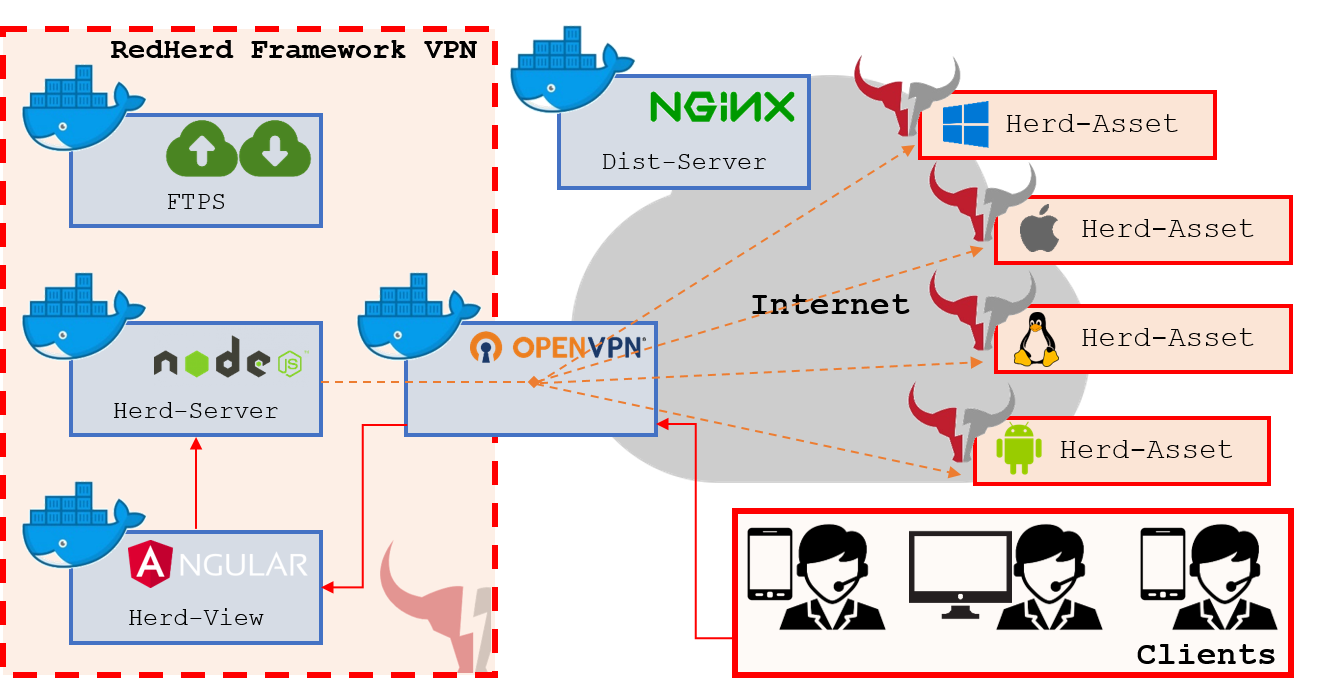
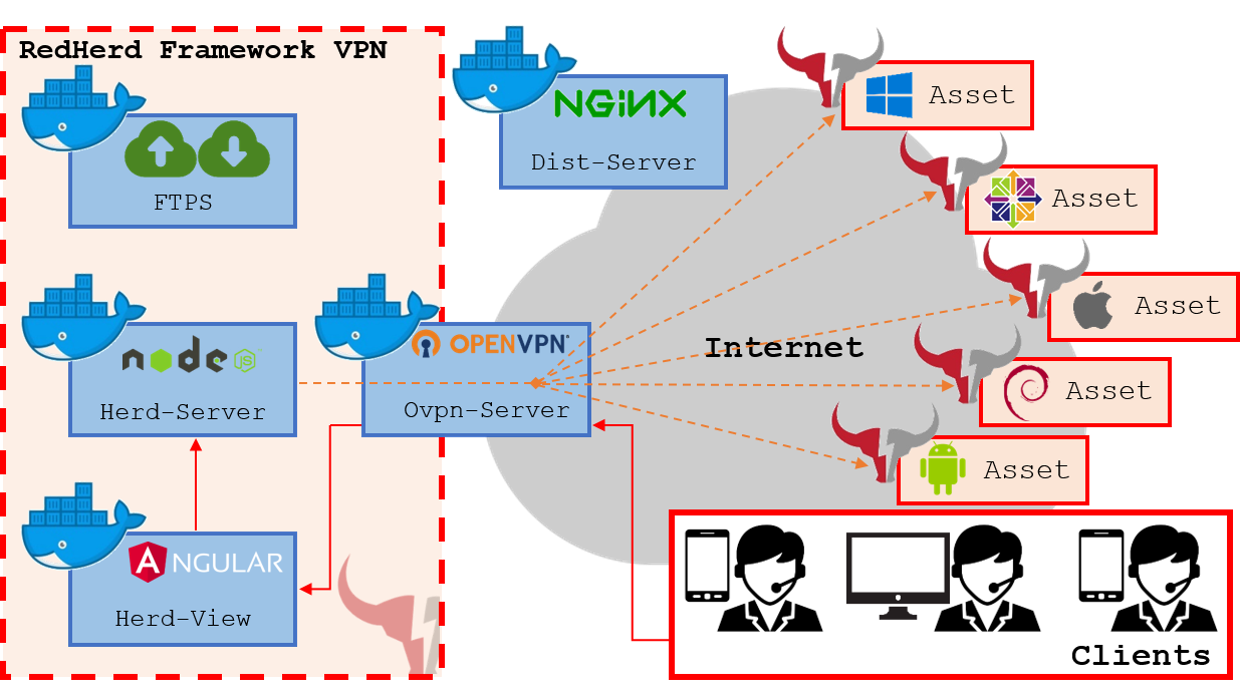
Additional update and cleanup

diff --git a/docs/users-guide/asset-management.md b/docs/users-guide/asset-management.md
@@ -41,7 +41,7 @@ $ herd-cli endpoint -s 172.23.16.16 -o docker -m install -i 2
                      *** (((                                                            
                                                                                         
 
-sudo docker run -d --rm --cap-add=NET_ADMIN --device /dev/net/tun -e DSTRSRV_PUBLIC_ADDRESS="172.23.16.16" -e USERNAME="USER_002" -e PASSWORD="2GHDUWvZxtbn18LeiVoEv4UmhGv0rUrY" --privileged=true --network host --name redherd-asset redherd/asset
+sudo docker run -d --rm --cap-add=NET_ADMIN --device /dev/net/tun -e DSTRSRV_PUBLIC_ADDRESS="172.23.16.16" -e USERNAME="78l8zUBjpm" -e PASSWORD="2GHDUWvZxtbn18LeiVoEv4UmhGv0rUrY" --privileged=true --network host --name redherd-asset redherd/asset
 ```
 
 ### Remove
@@ -92,7 +92,7 @@ $ herd-cli endpoint -s 172.23.16.16 -o debian -m install -i 2
                      *** (((                                                            
                                                                                         
 
-sudo bash -c "curl -k -u USER_002:2GHDUWvZxtbn18LeiVoEv4UmhGv0rUrY https://172.23.16.16:8443/50f3331a80894d85bcda8c4b404a919c/debian_asset_setup.sh > /tmp/script.sh && chmod +x /tmp/script.sh && /tmp/script.sh install && rm -rf /tmp/script.sh"
+sudo bash -c "curl -k -u 78l8zUBjpm:2GHDUWvZxtbn18LeiVoEv4UmhGv0rUrY https://172.23.16.16:8443/50f3331a80894d85bcda8c4b404a919c/debian_asset_setup.sh > /tmp/script.sh && chmod +x /tmp/script.sh && /tmp/script.sh install && rm -rf /tmp/script.sh"
 ```
 
 ### Remove
@@ -116,8 +116,59 @@ $ herd-cli endpoint -s 172.23.16.16 -o debian -m remove -i 2
                      *** (((                                                            
                                                                                         
 
-sudo bash -c "curl -k -u USER_002:2GHDUWvZxtbn18LeiVoEv4UmhGv0rUrY https://172.23.16.16:8443/50f3331a80894d85bcda8c4b404a919c/debian_asset_setup.sh > /tmp/script.sh && chmod +x /tmp/script.sh && /tmp/script.sh remove && rm -rf /tmp/script.sh"
+sudo bash -c "curl -k -u 78l8zUBjpm:2GHDUWvZxtbn18LeiVoEv4UmhGv0rUrY https://172.23.16.16:8443/50f3331a80894d85bcda8c4b404a919c/debian_asset_setup.sh > /tmp/script.sh && chmod +x /tmp/script.sh && /tmp/script.sh remove && rm -rf /tmp/script.sh"
 ```
+
+## CentOS
+
+### Add
+
+```bash
+$ herd-cli endpoint -s 172.23.16.16 -o centos -m install -i 2
+
+  *                                          #                                          
+ **                                          (#                                         
+ **                                          ((#                                        
+ ***                                        #((#                                        
+  ****(         (*****    ((((((          #((((                                         
+   *******************   ((((((((((((((((((((#                                          
+     *****************   ((((((((((((((((((                                             
+          ***********       (((((((((((                                                 
+              *******      (((((((#                                                     
+                  (*****   (((   ______ _______ ______  _     _ _______  ______ ______  
+                   *****  (((   |_____/ |______ |     \ |_____| |______ |_____/ |     \ 
+                    ****  ((    |    \_ |______ |_____/ |     | |______ |    \_ |_____/ 
+                     *** ((#    Command-line Interface                                  
+                     *** (((                                                            
+                                                                                        
+
+sudo bash -c "curl -k -u 78l8zUBjpm:2GHDUWvZxtbn18LeiVoEv4UmhGv0rUrY https://172.23.16.16:8443/50f3331a80894d85bcda8c4b404a919c/debian_asset_setup.sh > /tmp/script.sh && chmod +x /tmp/script.sh && /tmp/script.sh install && rm -rf /tmp/script.sh"
+```
+
+### Remove
+
+```bash
+$ herd-cli endpoint -s 172.23.16.16 -o centos -m remove -i 2
+
+  *                                          #                                          
+ **                                          (#                                         
+ **                                          ((#                                        
+ ***                                        #((#                                        
+  ****(         (*****    ((((((          #((((                                         
+   *******************   ((((((((((((((((((((#                                          
+     *****************   ((((((((((((((((((                                             
+          ***********       (((((((((((                                                 
+              *******      (((((((#                                                     
+                  (*****   (((   ______ _______ ______  _     _ _______  ______ ______  
+                   *****  (((   |_____/ |______ |     \ |_____| |______ |_____/ |     \ 
+                    ****  ((    |    \_ |______ |_____/ |     | |______ |    \_ |_____/ 
+                     *** ((#    Command-line Interface                                  
+                     *** (((                                                            
+                                                                                        
+
+sudo bash -c "curl -k -u 78l8zUBjpm:2GHDUWvZxtbn18LeiVoEv4UmhGv0rUrY https://172.23.16.16:8443/50f3331a80894d85bcda8c4b404a919c/debian_asset_setup.sh > /tmp/script.sh && chmod +x /tmp/script.sh && /tmp/script.sh remove && rm -rf /tmp/script.sh"
+```
+
 
 ## Windows
 
@@ -143,7 +194,7 @@ $ herd-cli endpoint -s 172.23.16.16 -o windows -m install -i 2
                                                                                         
 
 $block = {
-[Net.ServicePointManager]::ServerCertificateValidationCallback = {$true}; $webclient = New-Object System.Net.WebClient; $basic = [System.Convert]::ToBase64String([System.Text.Encoding]::ASCII.GetBytes("USER_002" + ":" + "2GHDUWvZxtbn18LeiVoEv4UmhGv0rUrY"));$webclient.Headers["Authorization"] = "Basic ";
+[Net.ServicePointManager]::ServerCertificateValidationCallback = {$true}; $webclient = New-Object System.Net.WebClient; $basic = [System.Convert]::ToBase64String([System.Text.Encoding]::ASCII.GetBytes("78l8zUBjpm" + ":" + "2GHDUWvZxtbn18LeiVoEv4UmhGv0rUrY"));$webclient.Headers["Authorization"] = "Basic ";
 $webclient.DownloadFile("https://172.23.16.16:8443/50f3331a80894d85bcda8c4b404a919c/windows_asset_setup.psm1", "script.psm1")
 Import-Module .\script.psm1; Add-Asset; Remove-Item .\script.psm1;
 }; powershell -ep bypass -nop -c $block
@@ -171,7 +222,7 @@ $ herd-cli endpoint -s 172.23.16.16 -o windows -m remove -i 2
                                                                                         
 
 $block = {
-[Net.ServicePointManager]::ServerCertificateValidationCallback = {$true}; $webclient = New-Object System.Net.WebClient; $basic = [System.Convert]::ToBase64String([System.Text.Encoding]::ASCII.GetBytes("USER_002" + ":" + "2GHDUWvZxtbn18LeiVoEv4UmhGv0rUrY"));$webclient.Headers["Authorization"] = "Basic ";
+[Net.ServicePointManager]::ServerCertificateValidationCallback = {$true}; $webclient = New-Object System.Net.WebClient; $basic = [System.Convert]::ToBase64String([System.Text.Encoding]::ASCII.GetBytes("78l8zUBjpm" + ":" + "2GHDUWvZxtbn18LeiVoEv4UmhGv0rUrY"));$webclient.Headers["Authorization"] = "Basic ";
 $webclient.DownloadFile("https://172.23.16.16:8443/50f3331a80894d85bcda8c4b404a919c/windows_asset_setup.psm1", "script.psm1")
 Import-Module .\script.psm1; Remove-Asset; Remove-Item .\script.psm1;
 }; powershell -ep bypass -nop -c $block
@@ -213,7 +264,7 @@ $ herd-cli endpoint -s 172.23.16.16 -o android -m install -i 2
 
  [!] Install Termux, Termux:Boot and Termux:API from Google Play 
 
-pkg install curl -y && curl -k -u USER_002:2GHDUWvZxtbn18LeiVoEv4UmhGv0rUrY https://172.23.16.16:8443/50f3331a80894d85bcda8c4b404a919c/android_asset_setup.sh > /home/user/script.sh && chmod +x /home/user/script.sh && /home/user/script.sh install && rm -rf /home/user/script.sh
+pkg install curl -y && curl -k -u 78l8zUBjpm:2GHDUWvZxtbn18LeiVoEv4UmhGv0rUrY https://172.23.16.16:8443/50f3331a80894d85bcda8c4b404a919c/android_asset_setup.sh > /home/user/script.sh && chmod +x /home/user/script.sh && /home/user/script.sh install && rm -rf /home/user/script.sh
 ```
 
 ### Remove
@@ -239,7 +290,7 @@ $ herd-cli endpoint -s 172.23.16.16 -o android -m remove -i 2
 
  [!] Install Termux, Termux:Boot and Termux:API from Google Play 
 
-pkg install curl -y && curl -k -u USER_002:2GHDUWvZxtbn18LeiVoEv4UmhGv0rUrY https://172.23.16.16:8443/50f3331a80894d85bcda8c4b404a919c/android_asset_setup.sh > /home/user/script.sh && chmod +x /home/user/script.sh && /home/user/script.sh remove && rm -rf /home/user/script.sh
+pkg install curl -y && curl -k -u 78l8zUBjpm:2GHDUWvZxtbn18LeiVoEv4UmhGv0rUrY https://172.23.16.16:8443/50f3331a80894d85bcda8c4b404a919c/android_asset_setup.sh > /home/user/script.sh && chmod +x /home/user/script.sh && /home/user/script.sh remove && rm -rf /home/user/script.sh
 ```
 
 ## MacOS
@@ -268,7 +319,7 @@ $ herd-cli endpoint -s 172.23.16.16 -o macos -m install -i 2
                      *** (((                                                            
                                                                                         
 
-sudo zsh -c "curl -k -u USER_002:2GHDUWvZxtbn18LeiVoEv4UmhGv0rUrY https://172.23.16.16:8443/50f3331a80894d85bcda8c4b404a919c/macos_asset_setup.sh > /tmp/script.sh && chmod +x /tmp/script.sh && /tmp/script.sh install && rm -rf /tmp/script.sh"
+sudo zsh -c "curl -k -u 78l8zUBjpm:2GHDUWvZxtbn18LeiVoEv4UmhGv0rUrY https://172.23.16.16:8443/50f3331a80894d85bcda8c4b404a919c/macos_asset_setup.sh > /tmp/script.sh && chmod +x /tmp/script.sh && /tmp/script.sh install && rm -rf /tmp/script.sh"
 ```
 
 ### Remove
@@ -293,7 +344,7 @@ $ herd-cli endpoint -s 172.23.16.16 -o macos -m remove -i 2
                      *** (((                                                            
                                                                                         
 
-sudo zsh -c "curl -k -u USER_002:2GHDUWvZxtbn18LeiVoEv4UmhGv0rUrY https://172.23.16.16:8443/50f3331a80894d85bcda8c4b404a919c/macos_asset_setup.sh > /tmp/script.sh && chmod +x /tmp/script.sh && /tmp/script.sh remove && rm -rf /tmp/script.sh"
+sudo zsh -c "curl -k -u 78l8zUBjpm:2GHDUWvZxtbn18LeiVoEv4UmhGv0rUrY https://172.23.16.16:8443/50f3331a80894d85bcda8c4b404a919c/macos_asset_setup.sh > /tmp/script.sh && chmod +x /tmp/script.sh && /tmp/script.sh remove && rm -rf /tmp/script.sh"
 ```
 
 ## Asset Ban

diff --git a/docs/users-guide/client-management.md b/docs/users-guide/client-management.md
@@ -35,7 +35,7 @@ $ herd-cli endpoint -s 172.23.16.16 -o docker -m client -i 1
                      *** (((                                                            
                                                                                         
 
-sudo docker run -d --rm --cap-add=NET_ADMIN --device /dev/net/tun -e DSTRSRV_PUBLIC_ADDRESS="172.23.16.16" -e USERNAME="USER_001" -e PASSWORD="l9tcuv6GKUDBYtcyt2fyEcktDE578cs1" --network host -v $(pwd)/redherd-certificates:/usr/local/share/ca-certificates --name redherd-client redherd/client
+sudo docker run -d --rm --cap-add=NET_ADMIN --device /dev/net/tun -e DSTRSRV_PUBLIC_ADDRESS="172.23.16.16" -e USERNAME="HyXqpOOx41" -e PASSWORD="l9tcuv6GKUDBYtcyt2fyEcktDE578cs1" --network host -v $(pwd)/redherd-certificates:/usr/local/share/ca-certificates --name redherd-client redherd/client
 ```
 
 ## Debian
@@ -62,7 +62,34 @@ $ herd-cli endpoint -s 172.23.16.16 -o debian -m client -i 1
                      *** (((                                                            
                                                                                         
 
-sudo bash -c "apt update && apt install openvpn -y && curl -k -u USER_001:l9tcuv6GKUDBYtcyt2fyEcktDE578cs1 https://172.23.16.16:8443/f6865d8c51bb7a1ba155bdfbeb3f686e/config.ovpn > ./redherd.ovpn && /usr/sbin/openvpn ./redherd.ovpn
+sudo bash -c "apt update && apt install openvpn -y && curl -k -u HyXqpOOx41:l9tcuv6GKUDBYtcyt2fyEcktDE578cs1 https://172.23.16.16:8443/f6865d8c51bb7a1ba155bdfbeb3f686e/config.ovpn > ./redherd.ovpn && /usr/sbin/openvpn ./redherd.ovpn
+```
+
+## CentOS
+
+It is just required to run the Herd-CLI one-liner on the CentOS host:
+
+```bash
+$ herd-cli endpoint -s 172.23.16.16 -o centos -m client -i 1
+
+                                                                                        
+  *                                          #                                          
+ **                                          (#                                         
+ **                                          ((#                                        
+ ***                                        #((#                                        
+  ****(         (*****    ((((((          #((((                                         
+   *******************   ((((((((((((((((((((#                                          
+     *****************   ((((((((((((((((((                                             
+          ***********       (((((((((((                                                 
+              *******      (((((((#                                                     
+                  (*****   (((   ______ _______ ______  _     _ _______  ______ ______  
+                   *****  (((   |_____/ |______ |     \ |_____| |______ |_____/ |     \ 
+                    ****  ((    |    \_ |______ |_____/ |     | |______ |    \_ |_____/ 
+                     *** ((#    Command-line Interface                                  
+                     *** (((                                                            
+                                                                                        
+
+sudo bash -c "yum install epel-release -y && yum makecache && yum install curl openvpn -y && curl -k -u HyXqpOOx41:l9tcuv6GKUDBYtcyt2fyEcktDE578cs1 https://172.23.16.16:8443/f6865d8c51bb7a1ba155bdfbeb3f686e/config.ovpn > ./redherd.ovpn && /usr/sbin/openvpn ./redherd.ovpn"
 ```
 
 ## Windows
@@ -89,7 +116,7 @@ $ herd-cli endpoint -s 172.23.16.16 -o windows -m client -i 1
                                                                                         
 
 $block = {
-[Net.ServicePointManager]::ServerCertificateValidationCallback = {$true}; $webclient = New-Object System.Net.WebClient; $basic = [System.Convert]::ToBase64String([System.Text.Encoding]::ASCII.GetBytes("USER_001" + ":" + "l9tcuv6GKUDBYtcyt2fyEcktDE578cs1"));$webclient.Headers["Authorization"] = "Basic ";
+[Net.ServicePointManager]::ServerCertificateValidationCallback = {$true}; $webclient = New-Object System.Net.WebClient; $basic = [System.Convert]::ToBase64String([System.Text.Encoding]::ASCII.GetBytes("HyXqpOOx41" + ":" + "l9tcuv6GKUDBYtcyt2fyEcktDE578cs1"));$webclient.Headers["Authorization"] = "Basic ";
 $webclient.DownloadFile("https://172.23.16.16:8443/f6865d8c51bb7a1ba155bdfbeb3f686e/config.ovpn", "redherd.ovpn")
 }; powershell -ep bypass -nop -c $block
 
@@ -122,7 +149,7 @@ $ herd-cli endpoint -s 172.23.16.16 -o android -m client -i 1
 
  [!] Manually download the OpenVPN config file: 
  [!] Url: https://172.23.16.16:8443/f6865d8c51bb7a1ba155bdfbeb3f686e/config.ovpn 
- [!] Username: USER_001 
+ [!] Username: HyXqpOOx41 
  [!] Password: l9tcuv6GKUDBYtcyt2fyEcktDE578cs1 
 ```
 
@@ -149,7 +176,7 @@ $ herd-cli endpoint -s 172.23.16.16 -o macos -m client -i 1
                      *** (((                                                            
                                                                                         
 
-curl -k -u USER_001:l9tcuv6GKUDBYtcyt2fyEcktDE578cs1 https://172.23.16.16:8443/f6865d8c51bb7a1ba155bdfbeb3f686e/config.ovpn > ./redherd.ovpn
+curl -k -u HyXqpOOx41:l9tcuv6GKUDBYtcyt2fyEcktDE578cs1 https://172.23.16.16:8443/f6865d8c51bb7a1ba155bdfbeb3f686e/config.ovpn > ./redherd.ovpn
 
  [!] Manually run OpenVPN with the downloaded `redherd.ovpn` config file 
 ```

diff --git a/docs/developers-guide/module-implementation.md b/docs/developers-guide/module-implementation.md
@@ -41,7 +41,7 @@ The first step requires the generation an **.info** file containing the module m
 
 A metadata file, as shown in the previous code snippet, has the *info* extension and essentially consists of `json-formatted` data which must be filled as explained hereafter: 
 
-- *name* is the module name, it must match the metadata filename and should be chosen according the following convention *operatingsystem_binary*. As an example, some module names are `android_ping`, `debian_ping`, `windows_ping` and `macos_ping`;
+- *name* is the module name, it must match the metadata filename and should be chosen according the following convention *operatingsystem_binary*. As an example, some module names are `android_ping`, `debian_ping`, `centos_ping`, `windows_ping` and `macos_ping`;
 
 - *title* and *description* are two informative fields which could be fundamental to understand what actions a module is able to performs;
 
@@ -49,7 +49,7 @@ A metadata file, as shown in the previous code snippet, has the *info* extension
 
 - *author* is the module developer or its group of developers;
 
-- *topic* is a sort of group which the module is associated to. This association is related to its target operating system and scope. The list of available topics is presented in the following table, where *os* must be replaced with `debian`, `android`, `windows` or `macos`:
+- *topic* is a sort of group which the module is associated to. This association is related to its target operating system and scope. The list of available topics is presented in the following table, where *os* must be replaced with `debian`, `centos`, `android`, `windows` or `macos`:
 
 | Topic | Description |
 | --- | --- |
@@ -383,7 +383,7 @@ Hereafter, we provide some examples of modules implementation:
     "title": "Android Ping",
     "description": "Android ping demo module",
     "binary": "ping",
-    "author": "c4dm10 & peco602",
+    "author": "b4gh33r4 & peco602",
     "topic": "android_misc",
     "version": "1.0",
     "params": [{"label": "Target", "name": "target", "type": "string"}],
@@ -453,7 +453,7 @@ module.exports = AndroidPing
   "title": "Nmap TCP Scan",
   "description": "Nmap module to scan TCP ports",
   "binary": "nmap",
-  "author": "c4dm10 & peco602",
+  "author": "b4gh33r4 & peco602",
   "topic": "debian_reconnaissance",
   "version": "1.0",
   "params": 
@@ -515,7 +515,7 @@ class DebianNmapTCP extends LinuxModule
     "title": "Airgeddon WiFi Attack Suite",
     "description": "Airgeddon WiFi Attack Suite",
     "binary": "airgeddon",
-    "author": "c4dm10 & peco602",
+    "author": "b4gh33r4 & peco602",
     "topic": "debian_delivery",
     "version": "1.0",
     "params": [{"label": "Operation", "name": "operation", "type": "list", "values": ["start", "stop"]}],
@@ -664,7 +664,7 @@ module.exports = DebianAirgeddon
     "title": "Motion Remote Cam Access",
     "description": "Motion Remote Cam Access",
     "binary": "motion",
-    "author": "c4dm10 & peco602",
+    "author": "b4gh33r4 & peco602",
     "topic": "debian_video",
     "version": "1.1",
     "params": [{"label": "Operation", "name": "operation", "type": "list", "values": ["start", "stop"]}],

diff --git a/docs/design/features.md b/docs/design/features.md
@@ -5,7 +5,7 @@
 RedHerd has several overwhelming features that characterize it with strong orchestration capabilities:
 
 * **Intuitive Interface**: it provides, through Herd-View, an intuitive web application to easily interact with the assets;
-* **Multi-Platform**: it is able to orchestrate a wide range of devices, offering joining and tasking procedures for different operating systems (`Windows`, `Linux`, `MacOS` and `Android`);
+* **Multi-Platform**: it is able to orchestrate a wide range of devices, offering joining and tasking procedures for different operating systems (`Windows`, `Debian-like`, `RHEL-like`, `MacOS` and `Android`);
 * **Multi-User**: it supports multi-user collaboration. The teamwork has become crucial for effective operations. In relation to this, joining RedHerd many users can task the same asset or operate independently;
 * **Agentless**: it overcomes the requirement of a local agent waiting for a task to accomplish. Specifically, during the task warmup Herd-Server receives a job for an asset and initiates an SSH connection with it. Subsequently, it specializes and executes the set of commands needed to reach the expected result, allowing a lightweight computational effort asset-side;
 * **Easily Deployable**: it is cross platform and can be deployed both on premise and in a Cloud-based environment. In order to grant this feature, a bash script has been proposed to automate the framework deployment process on a Debian-based distro. Taking into account the design choice to use docker-enabled containerization, an equivalent script could be easily developed allowing RedHerd to be hosted on a different operating system;

diff --git a/docs/design/architecture.md b/docs/design/architecture.md
@@ -6,7 +6,7 @@ RedHerd uses some specialized Docker containers in order to integrate many commu
 
 The main elements of the RedHerd framework are listed hereafter:
 
-- **Assets**: multi-platform devices (`Windows`, `Linux`, `MacOS` and `Android`) that can be orchestrated to perform cyber operations;
+- **Assets**: multi-platform devices (`Windows`, `Debian-like`, `RHEL-like`, `MacOS` and `Android`) that can be orchestrated to perform cyber operations;
 - **Herd-Server**: the Node.js core of the framework which is responsible for interacting with the assets. It receives and multiplexes all the inputs from the operators thanks to an extended set of Application Programming Interfaces (API) and dispatches the output received from the assets via a Socket.IO channel;
 - **File-Server**: an FTPS-based server, which allows secure file transfer among operators and assets;
 - **OVPN-Server**: the OpenVPN gateway for all entities interacting with the framework;

diff --git a/docs/design/terminology.md b/docs/design/terminology.md
@@ -2,7 +2,7 @@
 
 | Name | Description |
 | --- | --- |
-| `asset` | The multi-platform devices (`Windows`, `Linux`, `MacOS` and `Android`) that can be orchestrated. |
+| `asset` | The multi-platform devices (`Windows`, `Debian-like`, `RHEL-like`, `MacOS` and `Android`) that can be orchestrated. |
 | `client` | The device used by an operator to interact with RedHerd components. |
 | `module` | The code implementation of a task that can be executed by asset. |
 | `process` | The dynamic instance of a module. |

diff --git a/docs/developers-guide/api-usage.md b/docs/developers-guide/api-usage.md
@@ -104,7 +104,7 @@ Date: Fri, 01 Jul 1900 16:00:00 GMT
             "title": "Ping",
             "description": "A ping demo module",
             "binary": "ping",
-            "author": "c4dm10 & peco602",
+            "author": "b4gh33r4 & peco602",
             "topic": "debian_misc",
             "version": "1.0",
             "params": [
